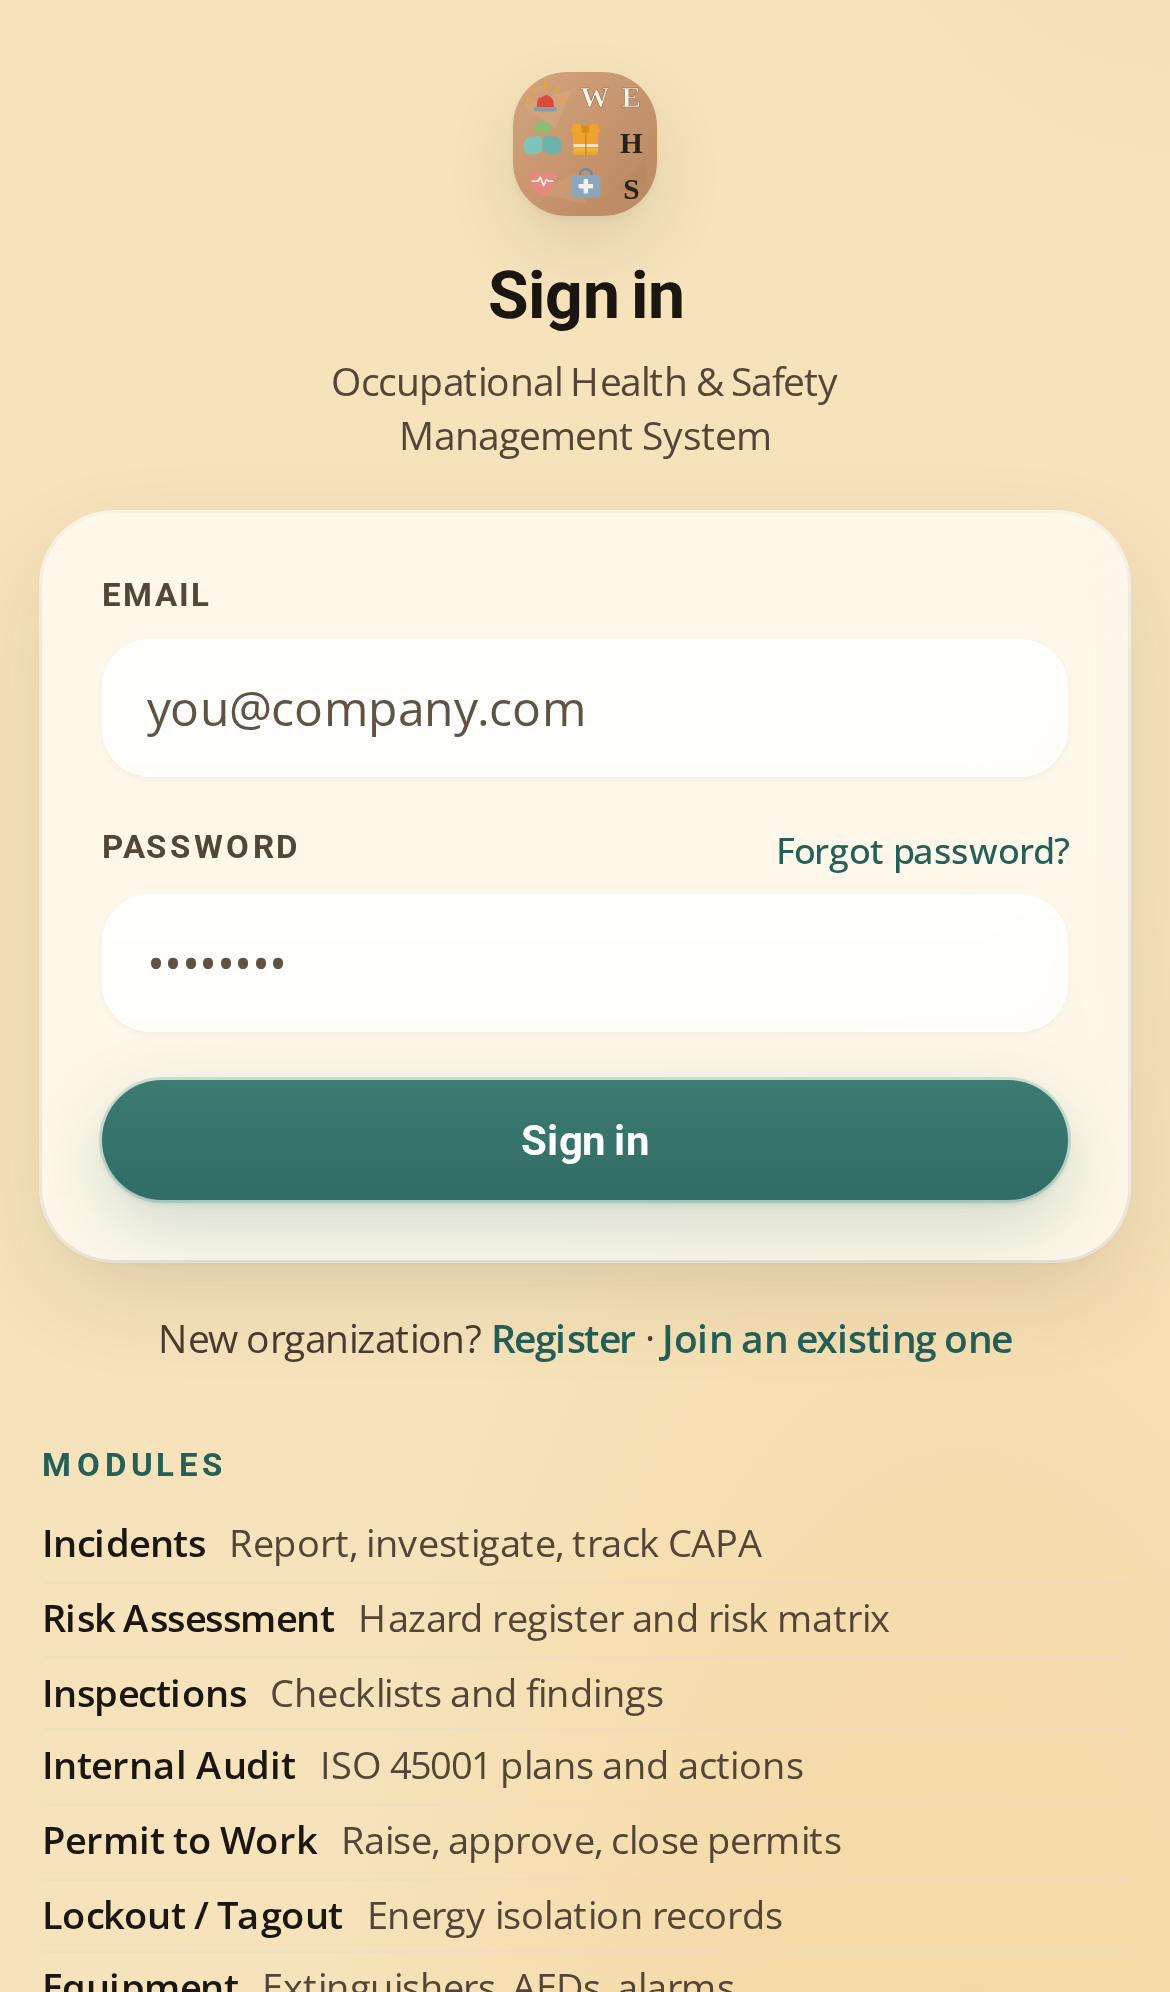
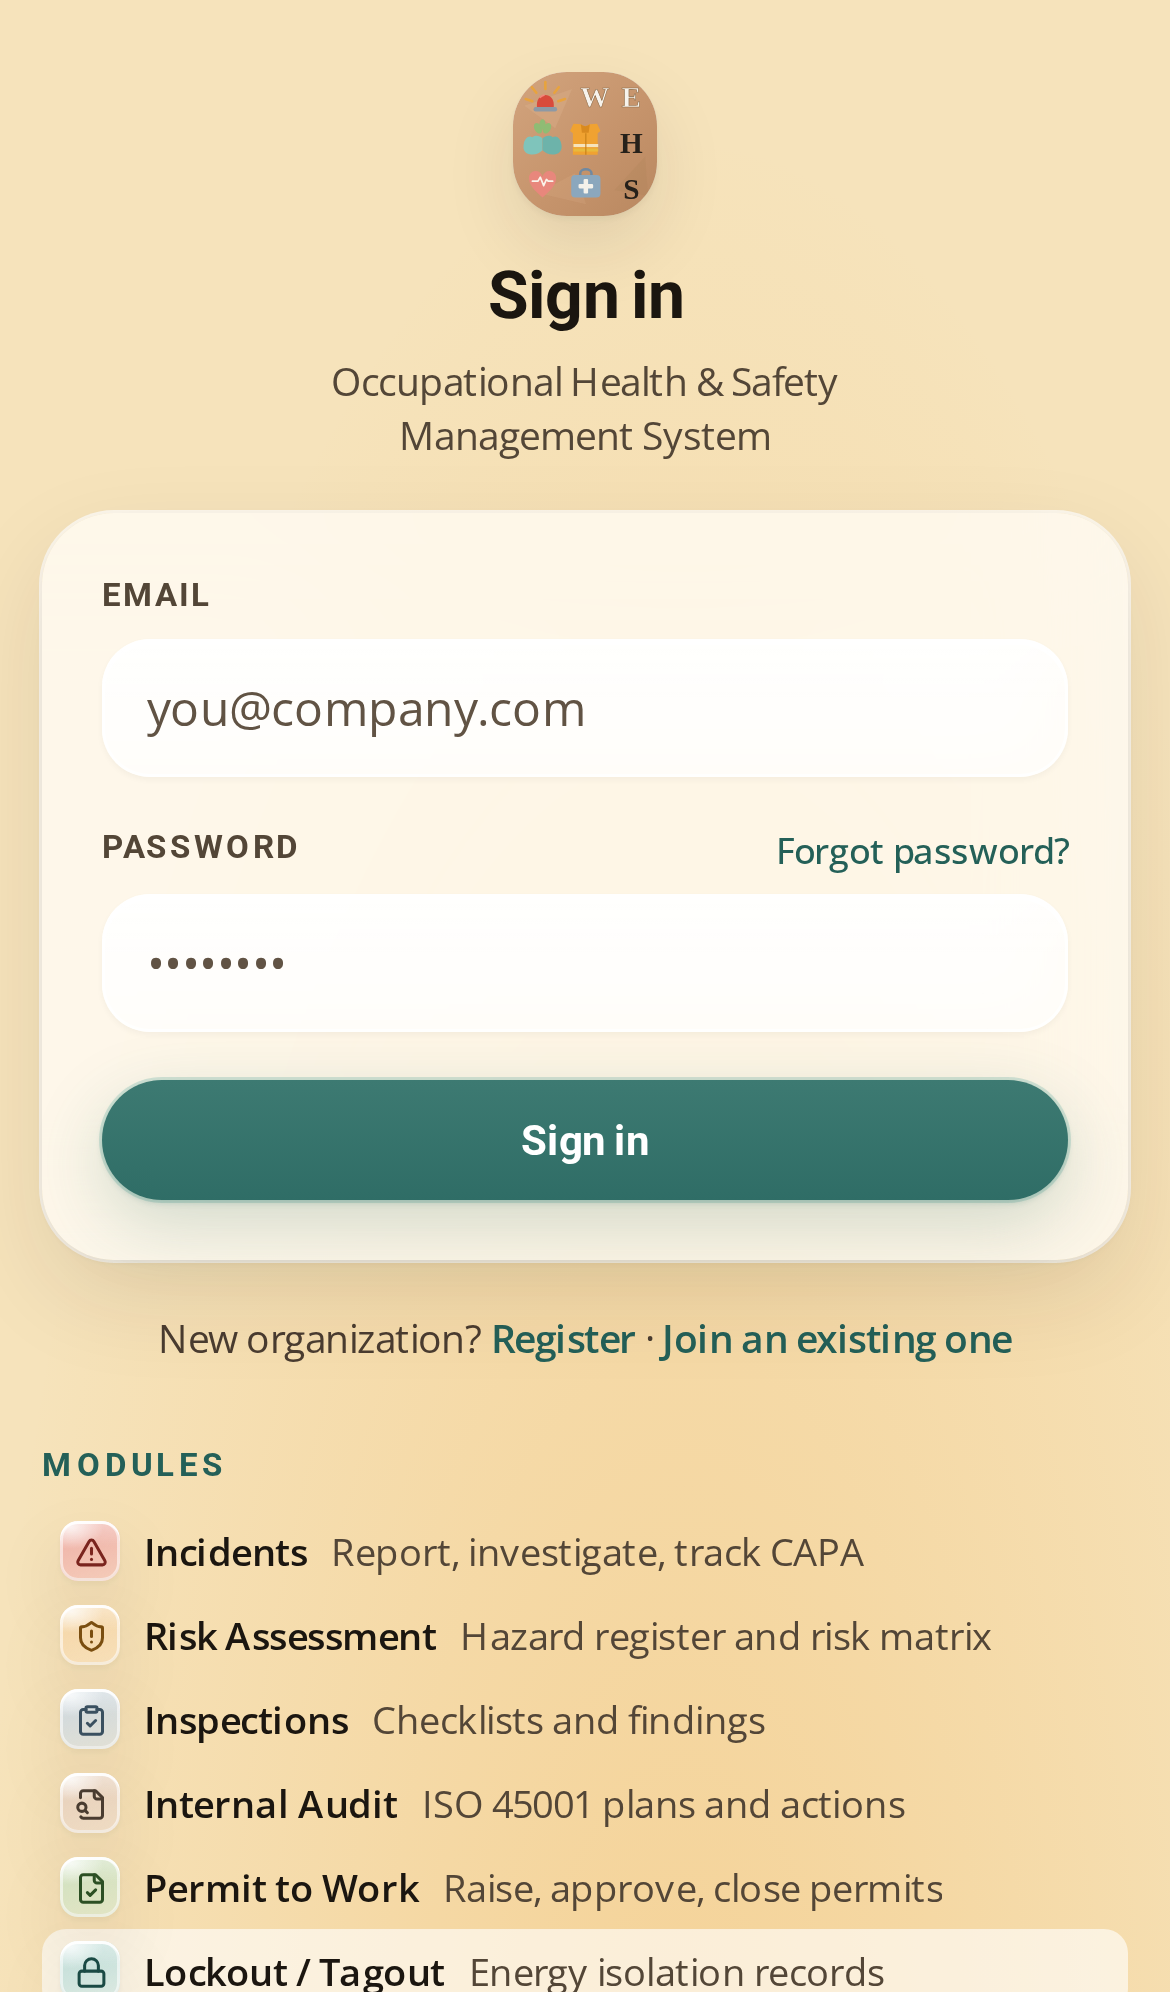
Add small module marks and a quiet wash to the login list
Each sign-in line keeps its one-line brief and gains the registry icon on a
20px Liquid Glass disc. Lines fade in staggered, and a soft highlight travels
down the list. Reduced motion turns both off. The form and list still fit a
normal desktop viewport.

Changed region(s): [[0.0308, 0.747, 0.9846, 1.0]]

diff --git a/src/pages/auth/LoginModules.jsx b/src/pages/auth/LoginModules.jsx
@@ -1,41 +1,18 @@
 // ─────────────────────────────────────────────────────────────────────────────
 // Public module roster on the sign-in screen.
 //
-// A line list, not tiles, and short on purpose. The registry descriptions are
-// written for the signed-in dashboard, where a paragraph has room. Pasting
-// them here made the sign-in page ramble below the fold. Login shows one line
-// per module (name — brief) in a narrow column beside the form. Anything
-// missing from LOGIN_BRIEF falls back to the registry text so a new module
-// cannot appear nameless.
+// A line list, not tiles. Registry descriptions are for the signed-in
+// dashboard; here each module is one line (mark, name, brief) so the form and
+// the list still share a viewport. The mark is the registry icon on a small
+// Liquid Glass disc. Lines fade in staggered, and a soft wash travels down
+// the list — motion-reduce drops both.
 // ─────────────────────────────────────────────────────────────────────────────
+import { motion, useReducedMotion } from 'framer-motion'
 import { MODULES } from '../../shared/modules/registry'
-
-/** One line each — enough to say what the module is for, not how it works. */
-const LOGIN_BRIEF = {
-  incidents: 'Report, investigate, track CAPA',
-  hira: 'Hazard register and risk matrix',
-  inspections: 'Checklists and findings',
-  audit: 'ISO 45001 plans and actions',
-  ptw: 'Raise, approve, close permits',
-  loto: 'Energy isolation records',
-  equipment: 'Extinguishers, AEDs, alarms',
-  drills: 'Fire and emergency drills',
-  committee: 'Meetings, minutes, actions',
-  training: 'Courses and expiry alerts',
-  documents: 'Policies, SOPs, and SDS',
-  emergency: 'Contacts and evacuation plans',
-  objectives: 'OH&S targets and scorecard',
-  weather: 'Site conditions as work risk',
-  cctv: 'Cameras, recorders, and health',
-  stakeholder: 'Escalations and legal matters',
-  actions: 'Open actions across modules',
-}
-
-export function loginBrief(module) {
-  return LOGIN_BRIEF[module.key] || module.description
-}
+import { loginBrief } from './loginBriefs'
 
 export default function LoginModules() {
+  const reduce = useReducedMotion()
   return (
     <section aria-labelledby="login-modules-heading" className="mx-auto w-full max-w-md lg:mx-0">
       <h2
@@ -45,15 +22,33 @@ export default function LoginModules() {
         Modules
       </h2>
       <ul className="mt-1.5 list-none p-0">
-        {MODULES.map((m) => (
-          <li
-            key={m.key}
-            className="flex items-baseline gap-x-2 border-b border-ink-200/40 py-1 text-[12.5px] leading-tight last:border-b-0"
-          >
-            <span className="shrink-0 font-semibold text-ink-900">{m.label}</span>
-            <span className="min-w-0 text-ink-500">{loginBrief(m)}</span>
-          </li>
-        ))}
+        {MODULES.map((m, i) => {
+          const Icon = m.icon
+          return (
+            <motion.li
+              key={m.key}
+              className="login-line flex items-center gap-2 px-1.5 py-1 text-[12.5px] leading-tight"
+              style={{ animationDelay: `${i * 1.25}s` }}
+              initial={reduce ? false : { opacity: 0, x: 10 }}
+              animate={{ opacity: 1, x: 0 }}
+              transition={{
+                duration: 0.35,
+                delay: reduce ? 0 : i * 0.035,
+                ease: [0.23, 1, 0.32, 1],
+              }}
+            >
+              <span
+                data-tone={m.tone}
+                className="glass-mark h-5 w-5 shrink-0 rounded-md transition-transform duration-200"
+                aria-hidden="true"
+              >
+                <Icon size={11} strokeWidth={2.2} className="block" />
+              </span>
+              <span className="shrink-0 font-semibold text-ink-900">{m.label}</span>
+              <span className="min-w-0 truncate text-ink-500">{loginBrief(m)}</span>
+            </motion.li>
+          )
+        })}
       </ul>
     </section>
   )

diff --git a/src/pages/auth/LoginModules.test.jsx b/src/pages/auth/LoginModules.test.jsx
@@ -1,7 +1,8 @@
 // @vitest-environment jsdom
 import { describe, it, expect } from 'vitest'
 import { render, screen } from '@testing-library/react'
-import LoginModules, { loginBrief } from './LoginModules'
+import LoginModules from './LoginModules'
+import { loginBrief } from './loginBriefs'
 import { MODULES } from '../../shared/modules/registry'
 
 describe('LoginModules', () => {
@@ -16,19 +17,21 @@ describe('LoginModules', () => {
     }
   })
 
-  it('is a narrow line list, not a tile grid', () => {
+  it('pairs each line with a small glass mark, not a tile', () => {
     const { container } = render(<LoginModules />)
     expect(container.querySelector('.glass-tile')).toBeNull()
     const section = container.querySelector('section')
     expect(section.className).toMatch(/max-w-md/)
-    const list = container.querySelector('ul')
-    expect(list.className).not.toMatch(/grid-cols/)
-    const rows = list.querySelectorAll('li')
+    const rows = container.querySelectorAll('li')
     expect(rows.length).toBe(MODULES.length)
     rows.forEach((row) => {
+      expect(row.className).toMatch(/login-line/)
       expect(row.className).toMatch(/py-1/)
-      expect(row.className).toMatch(/leading-tight/)
-      expect(row.querySelectorAll('span').length).toBe(2)
+      const mark = row.querySelector('.glass-mark')
+      expect(mark).toBeTruthy()
+      expect(mark.className).toMatch(/h-5/)
+      expect(mark.className).toMatch(/w-5/)
+      expect(mark.querySelector('svg')).toBeTruthy()
     })
   })
 })

diff --git a/src/pages/auth/loginBriefs.js b/src/pages/auth/loginBriefs.js
@@ -1,0 +1,27 @@
+// One line each for the sign-in roster. The registry descriptions are written
+// for the dashboard, where a paragraph has room; pasting them beside the form
+// pushed the page below the fold. A missing key falls back to that paragraph
+// so a new module cannot appear nameless.
+const LOGIN_BRIEF = {
+  incidents: 'Report, investigate, track CAPA',
+  hira: 'Hazard register and risk matrix',
+  inspections: 'Checklists and findings',
+  audit: 'ISO 45001 plans and actions',
+  ptw: 'Raise, approve, close permits',
+  loto: 'Energy isolation records',
+  equipment: 'Extinguishers, AEDs, alarms',
+  drills: 'Fire and emergency drills',
+  committee: 'Meetings, minutes, actions',
+  training: 'Courses and expiry alerts',
+  documents: 'Policies, SOPs, and SDS',
+  emergency: 'Contacts and evacuation plans',
+  objectives: 'OH&S targets and scorecard',
+  weather: 'Site conditions as work risk',
+  cctv: 'Cameras, recorders, and health',
+  stakeholder: 'Escalations and legal matters',
+  actions: 'Open actions across modules',
+}
+
+export function loginBrief(module) {
+  return LOGIN_BRIEF[module.key] || module.description
+}

diff --git a/src/index.css b/src/index.css
@@ -542,6 +542,35 @@ thead {
   opacity: 0.18;
 }
 
+/* Sign-in module lines. A wash travels down the list so the roster feels
+   alive without tiles or a looping marquee. Hover wins over the wash.
+   Reduced motion drops the cycle; the marks stay. */
+@keyframes login-line-glow {
+  0%,
+  4% {
+    background-color: rgba(255, 255, 255, 0.62);
+  }
+  10%,
+  100% {
+    background-color: transparent;
+  }
+}
+.login-line {
+  border-radius: 8px;
+  animation: login-line-glow 22s ease-in-out infinite;
+}
+.login-line:hover {
+  background-color: rgba(255, 255, 255, 0.7);
+}
+.login-line:hover .glass-mark {
+  transform: scale(1.06);
+}
+@media (prefers-reduced-motion: reduce) {
+  .login-line {
+    animation: none;
+  }
+}
+
 .is-on,
 .chip.is-on,
 .chip[aria-pressed='true'],
